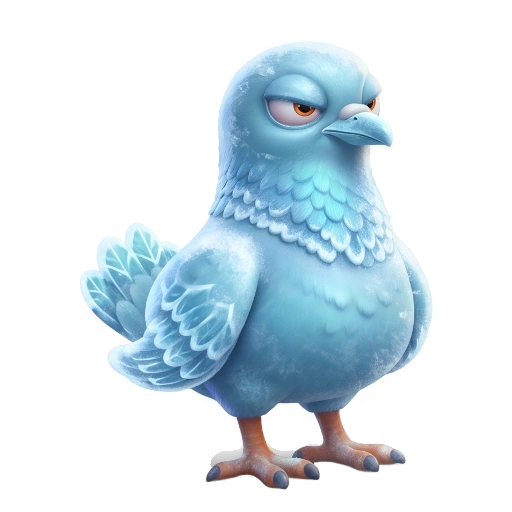
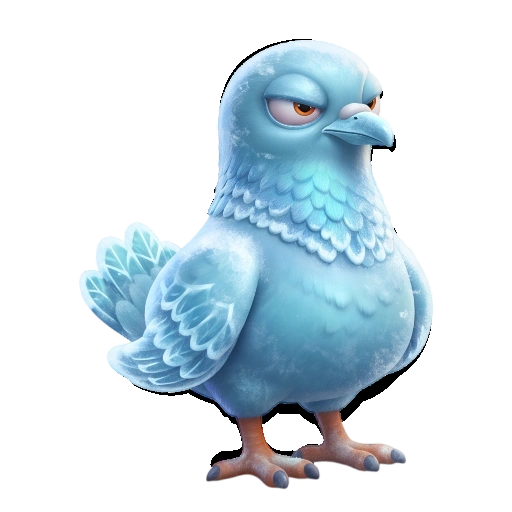
feat: use Photoroom RGBA PNG sheets for skins pipeline

diff --git a/src/ui.tsx b/src/ui.tsx
@@ -123,7 +123,7 @@ export const PIGEON_SKIN_COLORS: Record<string, string> = {
   "iridescent-oil-slick": "#5e5a67", "skin-18": "#5e5a67", "18": "#5e5a67",
 };
 
-const ASSET_V = "?v=12";
+const ASSET_V = "?v=13";
 
 export function resolveSkinSrc(skin?: string | null): string {
   if (!skin || skin === "common" || skin === "default") {

diff --git a/scripts/build-pigeon-assets.py b/scripts/build-pigeon-assets.py
@@ -307,34 +307,69 @@ def iter_sheet_cells(sheet_path: Path):
         yield sheet_rgb[r * ch : (r + 1) * ch, c * cw : (c + 1) * cw]
 
 
+def iter_sheet_cells_rgba(sheet_path: Path):
+    """Разрезает лист 2x3 на 6 RGBA-ячеек (если в файле 4 канала — сохраняет готовую альфу)."""
+    sheet = cv2.imread(str(sheet_path), cv2.IMREAD_UNCHANGED)
+    if sheet is None:
+        return
+    if sheet.ndim == 3 and sheet.shape[2] == 4:
+        sheet_rgba = cv2.cvtColor(sheet, cv2.COLOR_BGRA2RGBA)
+    else:
+        sheet_rgb = cv2.cvtColor(sheet, cv2.COLOR_BGR2RGB)
+        alpha = np.full(sheet_rgb.shape[:2], 255, dtype=np.uint8)
+        sheet_rgba = np.dstack([sheet_rgb, alpha])
+    h, w, _ = sheet_rgba.shape
+    ch, cw = h // 2, w // 3
+    for idx in range(6):
+        r, c = idx // 3, idx % 3
+        yield sheet_rgba[r * ch : (r + 1) * ch, c * cw : (c + 1) * cw]
+
+
 def build_skins_assets(ref_rgba: np.ndarray, session):
-    """Сегментирует 18 скинов через rembg и выравнивает под эталон через findTransformECC."""
+    """
+    Обрабатывает 18 скинов:
+      - При наличии PNG с альфа-каналом (skins*-Photoroom.png) использует готовую матовую альфу без rembg.
+      - Иначе сегментирует JPEG через rembg.
+    Выравнивает каждый скин под эталон body-base.webp через findTransformECC (MOTION_AFFINE).
+    """
     skins_dir = RAW_DIR / "skins"
     out_skins_dir = OUT_DIR / "skins"
     out_skins_dir.mkdir(parents=True, exist_ok=True)
     ref_alpha = ref_rgba[:, :, 3].astype(np.float32) / 255.0
 
-    print(f"\n[4/7] Сегментация (rembg) и ECC-выравнивание 18 окрасов из {skins_dir}...")
+    print(f"\n[4/7] Выравнивание 18 окрасов из {skins_dir}...")
     skin_idx = 1
-    for s_name in ["skins1.jpg", "skins2.jpg", "skins3.jpg"]:
-        sheet_path = skins_dir / s_name
-        if not sheet_path.exists():
-            print(f"  ⚠ Пропуск: {s_name} не найден")
-            continue
-        for cell_rgb in iter_sheet_cells(sheet_path):
-            seg_rgba = segment_subject(cell_rgb, session)
-            # Сохраняем исходный RGB (чтобы на узорных белых полосах, напр. зебра #07, не терялся цвет внутри ядра)
-            seg_with_rgb = np.dstack([cell_rgb, seg_rgba[:, :, 3]])
-            aligned_rgba = align_to_reference_ecc(seg_with_rgb, ref_alpha, mask_mode="full")
-            # Внутри плотного ядра эталона (ref_alpha > 0.88) не должно быть прозрачных дыр от rembg
-            core_fill = (ref_alpha > 0.88) & (aligned_rgba[:, :, 3] < 240)
-            if np.any(core_fill):
-                aligned_rgba[core_fill, 3] = 255
-            out_file = out_skins_dir / f"skin-{skin_idx:02d}.webp"
-            save_rgba_webp(aligned_rgba, out_file)
-            px = int(np.sum(aligned_rgba[:, :, 3] > 20))
-            print(f"  ✓ Скин #{skin_idx:02d}: {out_file.name} (пикселей: {px})")
-            skin_idx += 1
+    for i in range(1, 4):
+        png_path = skins_dir / f"skins{i}-Photoroom.png"
+        jpg_path = skins_dir / f"skins{i}.jpg"
+        if png_path.exists():
+            print(f"  → Используем PNG с альфа-каналом: {png_path.name}")
+            for cell_rgba in iter_sheet_cells_rgba(png_path):
+                aligned_rgba = align_to_reference_ecc(cell_rgba, ref_alpha, mask_mode="full")
+                core_fill = (ref_alpha > 0.88) & (aligned_rgba[:, :, 3] < 240)
+                if np.any(core_fill):
+                    aligned_rgba[core_fill, 3] = 255
+                out_file = out_skins_dir / f"skin-{skin_idx:02d}.webp"
+                save_rgba_webp(aligned_rgba, out_file)
+                px = int(np.sum(aligned_rgba[:, :, 3] > 20))
+                print(f"  ✓ Скин #{skin_idx:02d} (PNG): {out_file.name} (пикселей: {px})")
+                skin_idx += 1
+        elif jpg_path.exists():
+            print(f"  → Используем JPEG + rembg: {jpg_path.name}")
+            for cell_rgb in iter_sheet_cells(jpg_path):
+                seg_rgba = segment_subject(cell_rgb, session)
+                seg_with_rgb = np.dstack([cell_rgb, seg_rgba[:, :, 3]])
+                aligned_rgba = align_to_reference_ecc(seg_with_rgb, ref_alpha, mask_mode="full")
+                core_fill = (ref_alpha > 0.88) & (aligned_rgba[:, :, 3] < 240)
+                if np.any(core_fill):
+                    aligned_rgba[core_fill, 3] = 255
+                out_file = out_skins_dir / f"skin-{skin_idx:02d}.webp"
+                save_rgba_webp(aligned_rgba, out_file)
+                px = int(np.sum(aligned_rgba[:, :, 3] > 20))
+                print(f"  ✓ Скин #{skin_idx:02d} (rembg): {out_file.name} (пикселей: {px})")
+                skin_idx += 1
+        else:
+            print(f"  ⚠ Пропуск: лист скинов #{i} не найден")
 
 
 def extract_accessory_diff(
